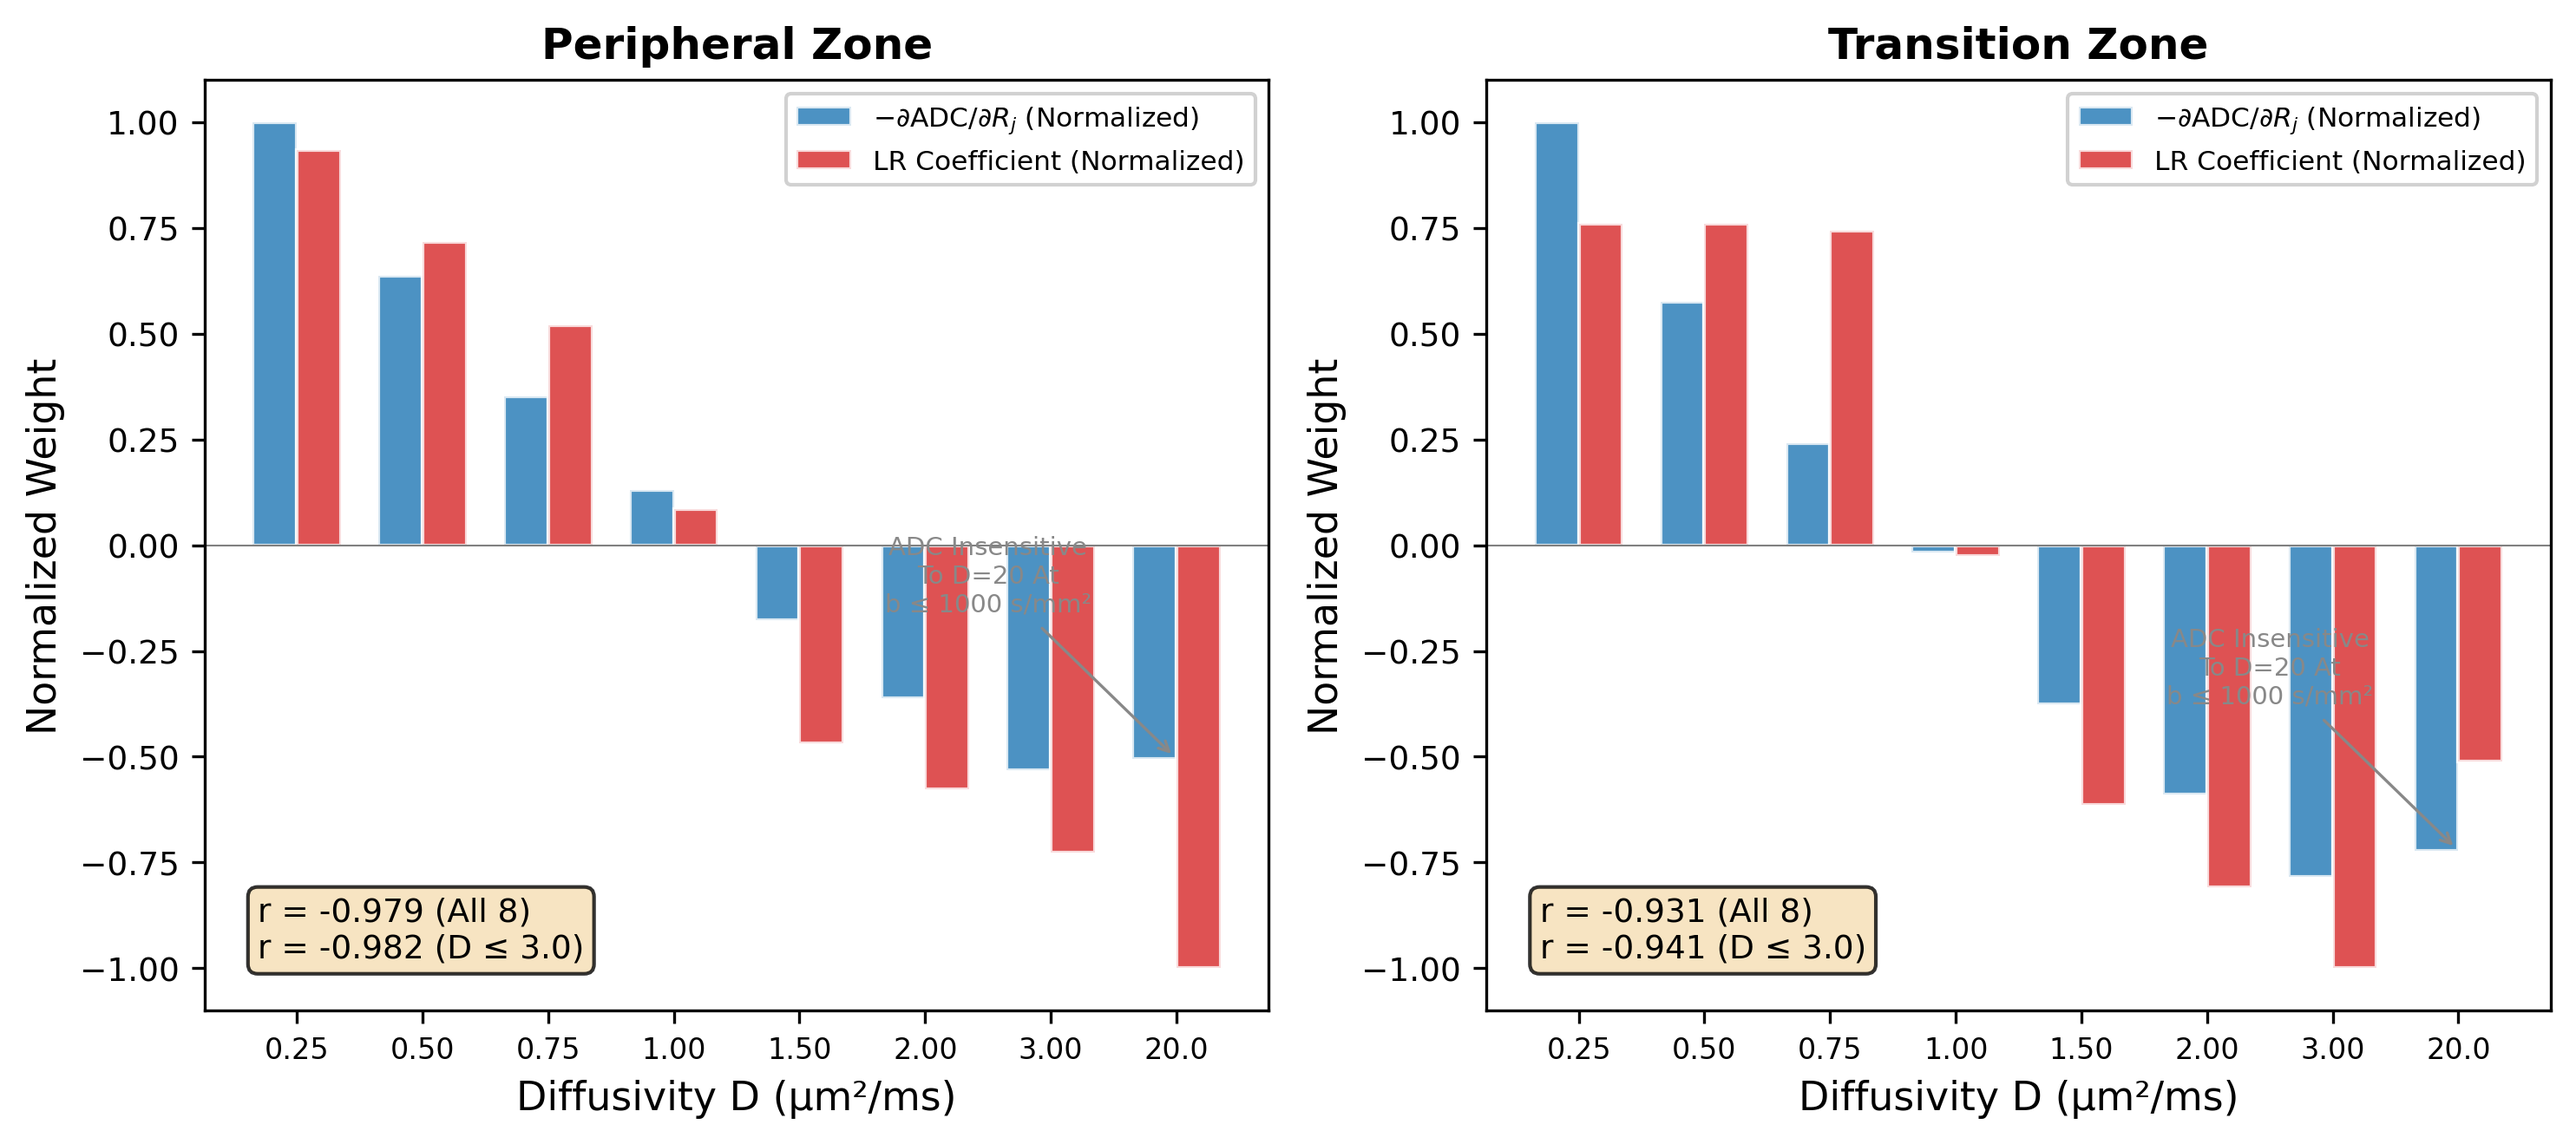
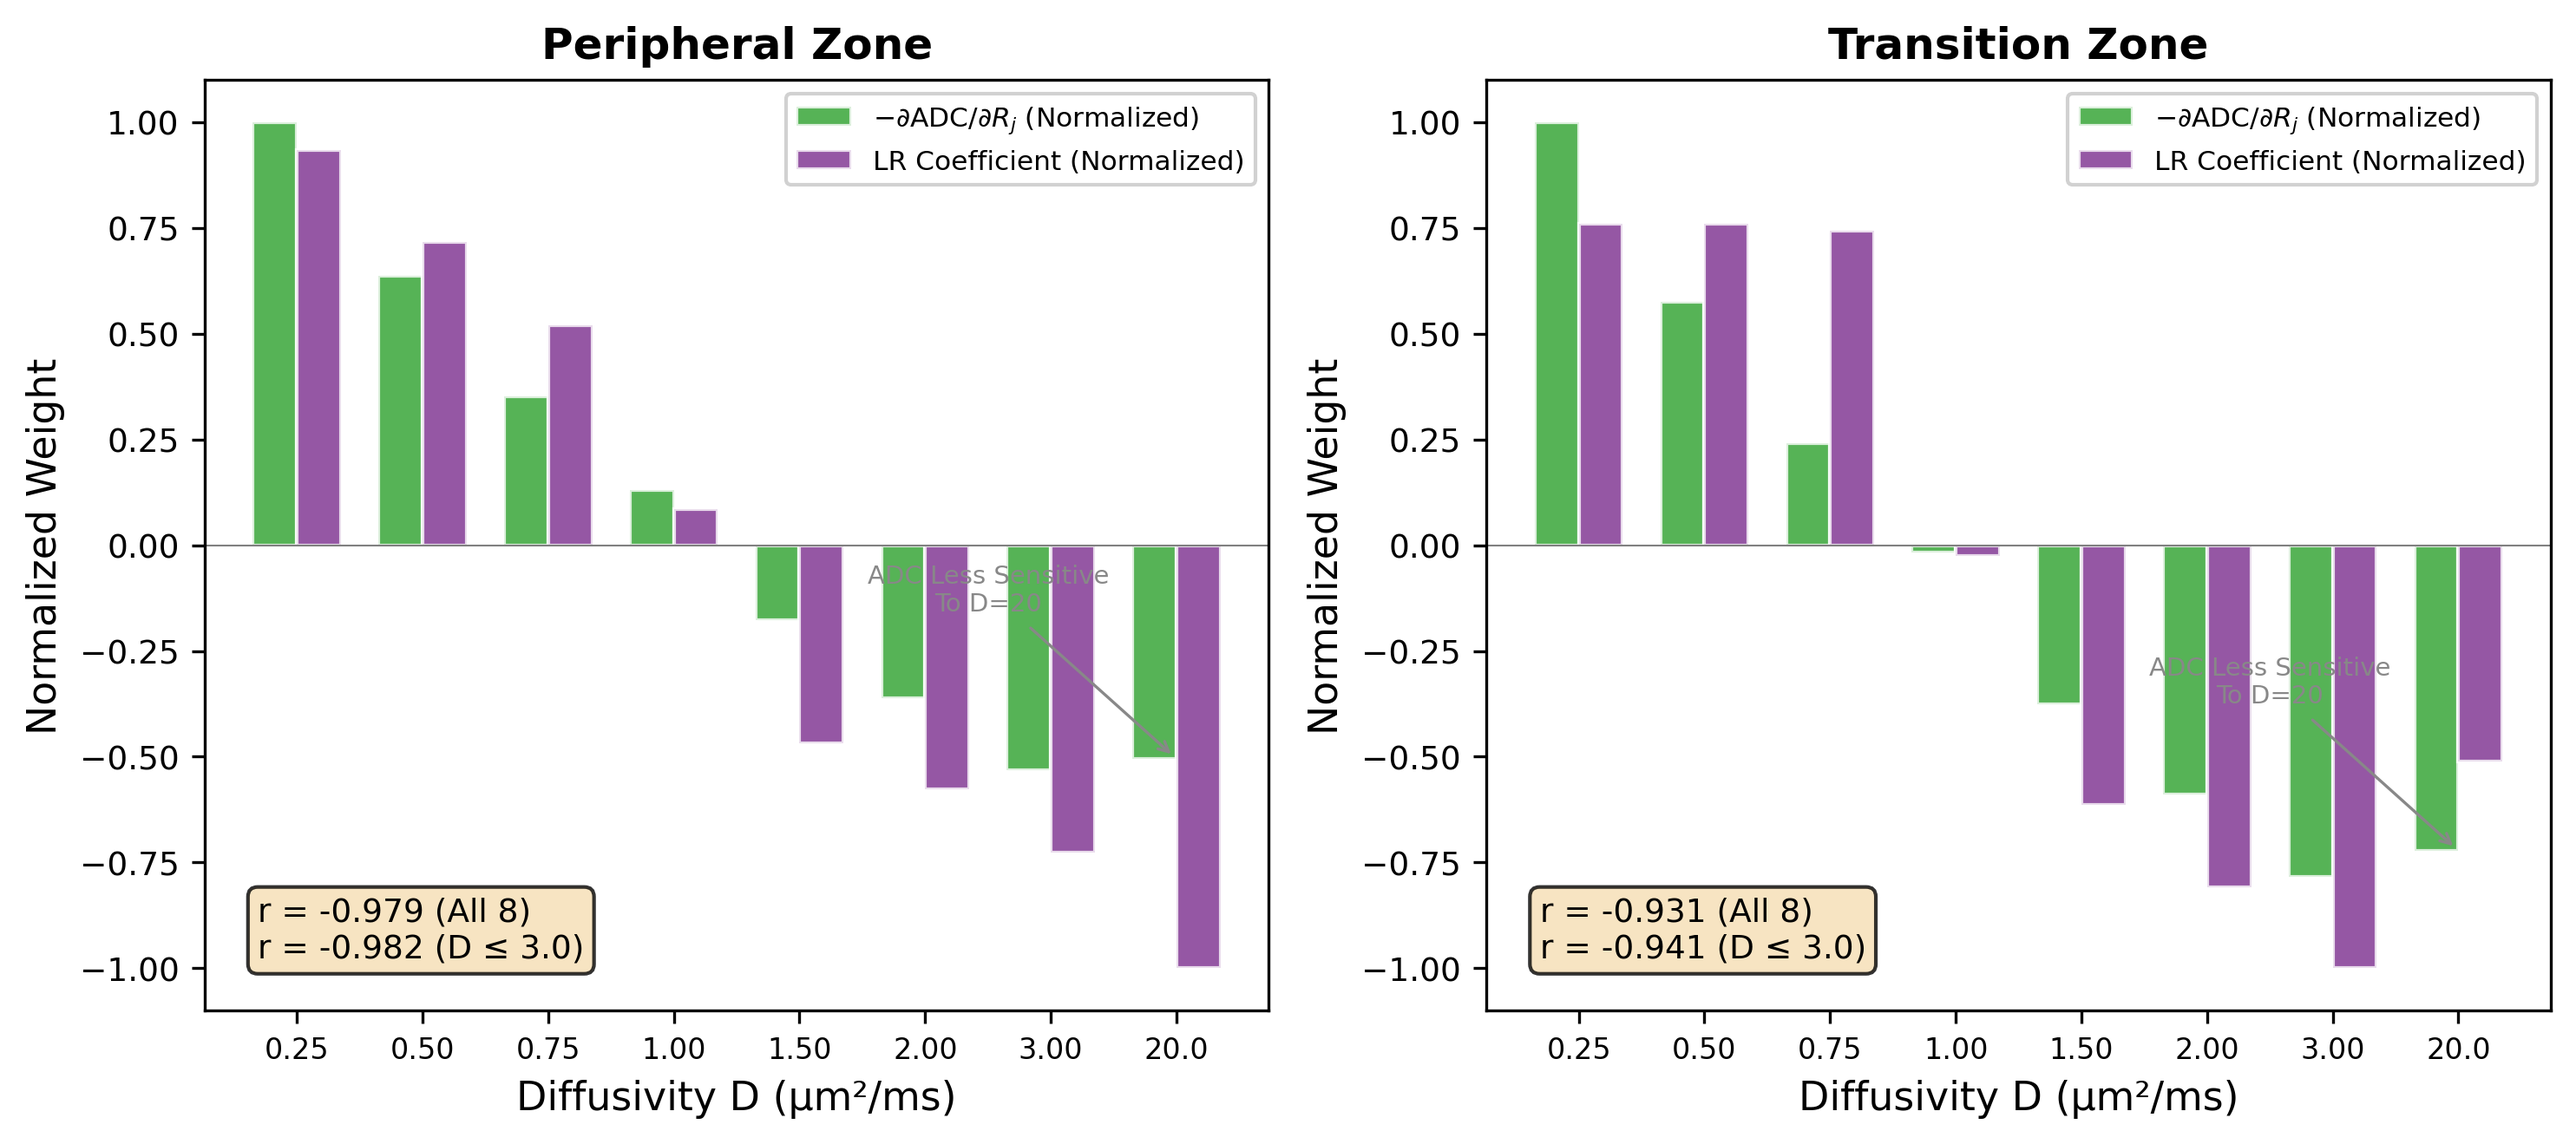
Address Stephan's figures.tex feedback
- Caption macro: remove bold title formatting (MRM doesn't support it)
- Sensitivity figure: change colors from blue/red (tumor/normal clash)
  to dark green/purple for ADC sensitivity vs LR coefficients
- D=20: correct "insensitive" to "less sensitive" — b=0 IS included
  in the ADC fit, cite Aksit Ciris et al. 2019
- Regenerated fig_sensitivity with new color scheme

diff --git a/paper/sections/figures.tex b/paper/sections/figures.tex
@@ -62,15 +62,16 @@ nearly identically to the optimal spectral classifier.
 \begin{figure}[p]
 \centering
 \includegraphics[width=\textwidth]{figures/fig_sensitivity.pdf}
-\capt[ADC Sensitivity Aligns With The Optimal Classification Direction.]{%
-Normalized ADC sensitivity vector ($-\partial\text{ADC}/\partial R_j$, blue)
-and logistic regression coefficients (red) for each diffusivity component.
+\capt[ADC sensitivity aligns with the optimal classification direction.]{%
+Normalized ADC sensitivity vector ($-\partial\text{ADC}/\partial R_j$, dark green)
+and logistic regression coefficients (purple) for each diffusivity component.
 (Left)~PZ: $r = -0.979$ (all 8), $r = -0.982$ (excluding $D = 20$).
 (Right)~TZ: $r = -0.931$ (all 8), $r = -0.941$ (excluding $D = 20$).
 Sensitivity evaluated at the average tumor spectrum (MAP features, $C = 1.0$).
-The $D = 20$ discrepancy arises because ADC (fit to $b \leq 1000\;\text{s/mm}^2$)
-is insensitive to the vascular compartment, which has fully decayed below the
-fitting range.
+The $D = 20$ discrepancy arises because ADC is less sensitive to the vascular
+compartment: although $b = 0$ is included in the fit, the $D = 20$ signal has
+decayed to near zero at all other b-values, leaving only the intercept to
+constrain this component \citep{aksitciris2019accelerated}.
 }
 \label{fig:sensitivity}
 \end{figure}

diff --git a/paper/sections/results.tex b/paper/sections/results.tex
@@ -46,7 +46,7 @@ The mechanistic basis for ADC's near-optimality was revealed by the sensitivity 
 The ADC sensitivity vector $\partial\text{ADC}/\partial R_j$, evaluated at the average PZ tumor operating point, had large negative components for restricted diffusion ($D = 0.25$: $-1.59$) and positive components for free water ($D = 3.0$: $+0.85$), indicating that increasing restricted diffusion decreases ADC while increasing free water raises it.
 
 Using MAP features, this sensitivity vector correlated with the logistic regression coefficient vector at $r = -0.979$ (PZ, $C = 1.0$) and $r = -0.931$ (TZ).
-Excluding $D = 20.0\;\umsmm$---to which ADC is insensitive because this component decays completely below the fitting range ($b \leq 1000\;\text{s/mm}^2$)---the correlation improved to $r = -0.982$ (PZ) and $r = -0.941$ (TZ).
+Excluding $D = 20.0\;\umsmm$---to which ADC is less sensitive because the vascular signal has largely decayed by the second b-value step \citep{aksitciris2019accelerated}---the correlation improved to $r = -0.982$ (PZ) and $r = -0.941$ (TZ).
 The Spearman rank correlation at the PZ normal operating point was $r_s = -1.0$---a perfect rank match.
 This demonstrates that ADC implicitly weights each resolvable spectral compartment in almost exactly the same proportion as the optimal linear classifier.
 

diff --git a/scripts/generate_paper_figures.py b/scripts/generate_paper_figures.py
@@ -299,13 +299,13 @@ def fig_sensitivity(df):
         x = np.arange(len(DIFFUSIVITIES)); width = 0.35
         ax.bar(x - width/2, sens_norm, width,
                label=r"$-\partial$ADC/$\partial R_j$ (Normalized)",
-               color=ADC_COLOR, alpha=0.8, edgecolor="white")
+               color="#2ca02c", alpha=0.8, edgecolor="white")  # dark green
         ax.bar(x + width/2, coefs_norm, width,
                label="LR Coefficient (Normalized)",
-               color=TUMOR_COLOR, alpha=0.8, edgecolor="white")
+               color="#7b2d8e", alpha=0.8, edgecolor="white")  # purple
 
         # D=20 annotation
-        ax.annotate("ADC Insensitive\nTo D=20 At\nb \u2264 1000 s/mm\u00b2",
+        ax.annotate("ADC Less Sensitive\nTo D=20",
                      xy=(7, sens_norm[7]), xytext=(5.5, sens_norm[7] + 0.35),
                      fontsize=7, ha="center", color=GRAY,
                      arrowprops=dict(arrowstyle="->", color=GRAY, lw=0.8))

diff --git a/paper/main.tex b/paper/main.tex
@@ -85,8 +85,8 @@
 \newcommand{\Umat}{\mathbf{U}}
 \newcommand{\umsmm}{\si{\micro\meter\squared\per\milli\second}}
 
-% Figure caption with title
-\newcommand{\capt}[2][]{\caption[{#1}]{\textbf{{#1}}\newline{#2}}}
+% Figure caption: first arg is summary sentence (not bolded per MRM style), second is detail
+\newcommand{\capt}[2][]{\caption[{#1}]{{#1} {#2}}}
 
 % Draft helpers
 \newcommand{\todo}[1]{\textcolor{red}{\textbf{[TODO: #1]}}}
